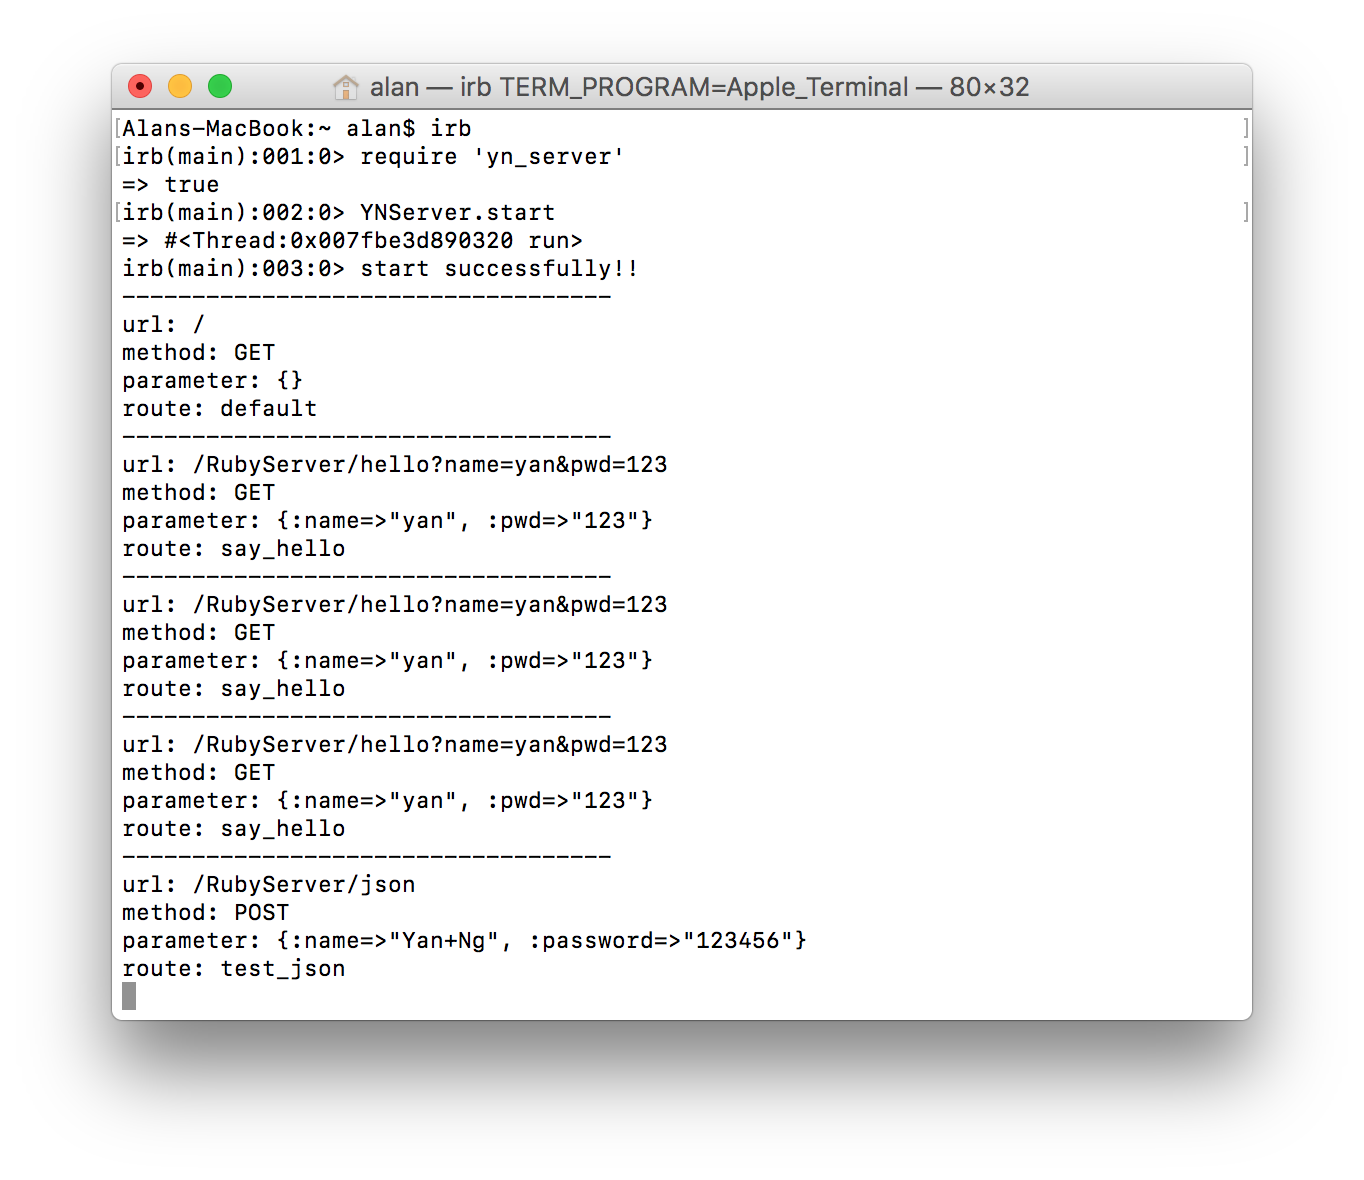
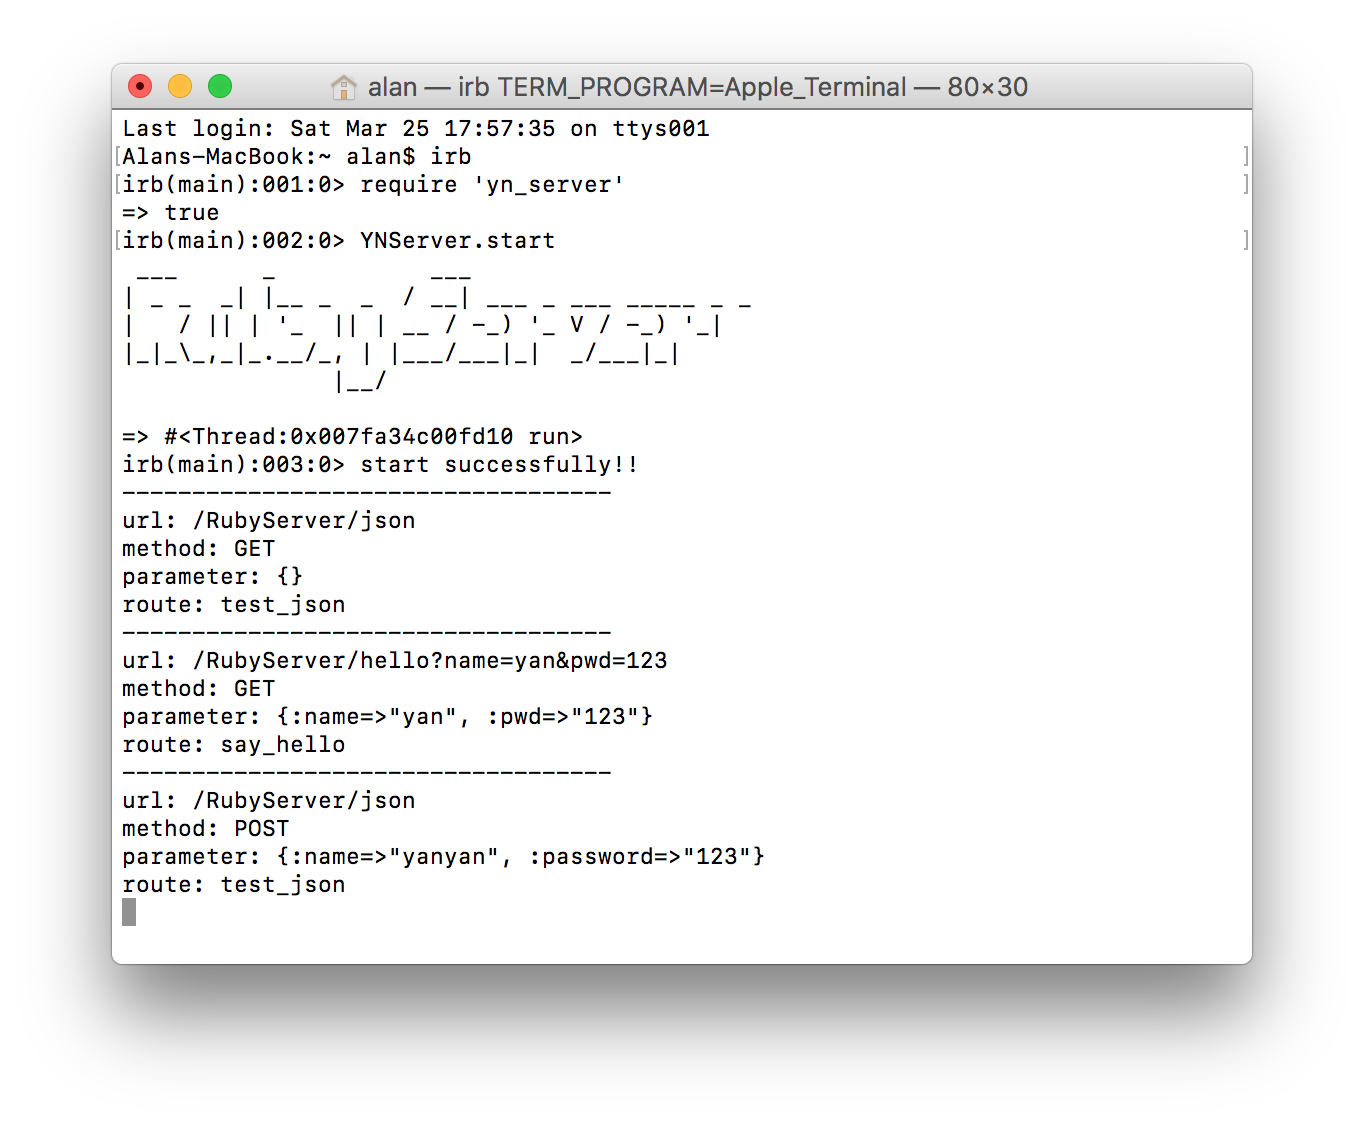
添加logo信息

Changed region(s): [[0.0616, 0.0623, 0.9238, 0.8719], [0.4003, 0.7473, 0.585, 0.8096], [0.4619, 0.2802, 0.4927, 0.3114]]

diff --git a/lib/yn_logo.rb b/lib/yn_logo.rb
@@ -1,0 +1,10 @@
+class YNLogo
+	def self.logo
+		puts " ___      _           ___                      "
+		puts "| _ \_  _| |__ _  _  / __| ___ _ ___ _____ _ _ "
+		puts "|   / || | '_ \ || | \__ \/ -_) '_\ V / -_) '_|"
+		puts "|_|_\\_,_|_.__/\_, | |___/\___|_|  \_/\___|_|  "
+		puts "               |__/                            "
+		puts "\n"
+	end
+end

diff --git a/lib/yn_server.rb b/lib/yn_server.rb
@@ -1,10 +1,11 @@
 require 'yn_socket_server'
 require 'yn_socket_queue'
 require 'yn_handle_request'
-require 'yaml'
+require 'yn_logo.rb'
 
 class YNServer
 	def self.start(port=2000)
+		YNLogo.logo
 		queue = YNSocketQueue.new
 		thread2 = Thread.new do
 			socket_server = YNSocketServer.new(port,queue)
